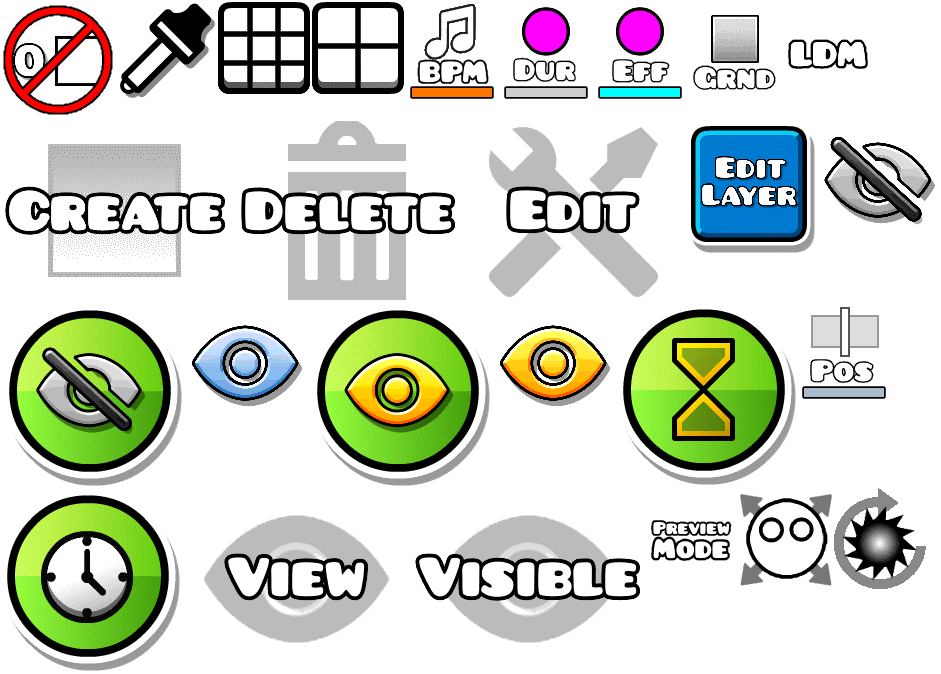
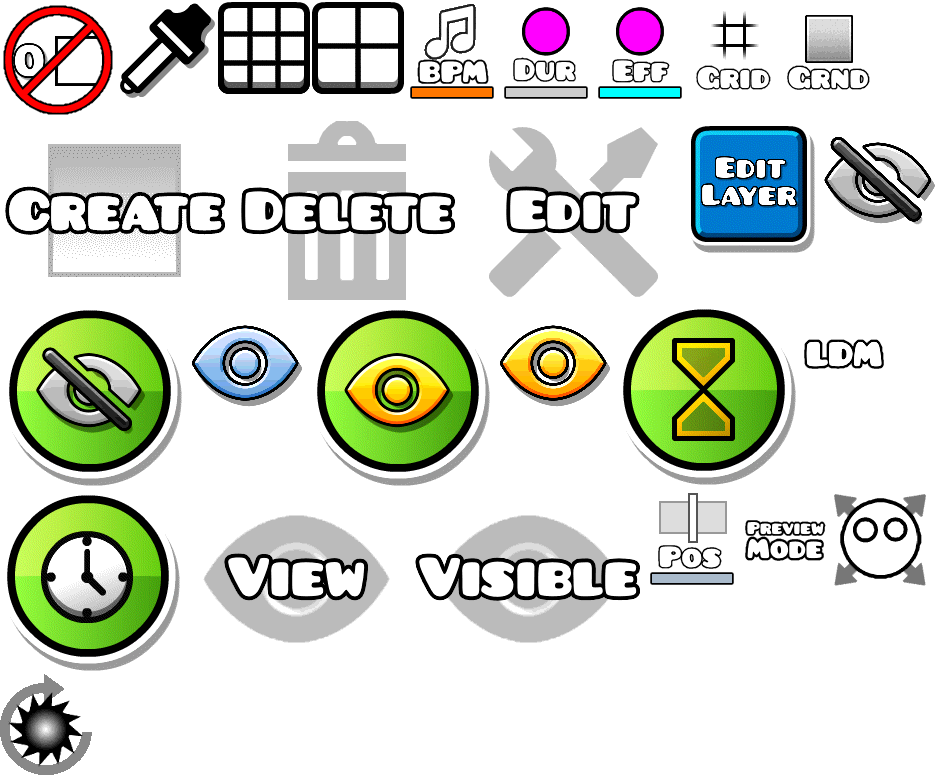
hide grid in visibility tab; auto backups should work now; fixed debug textures

diff --git a/tools/EyeDropper/eyeDropper.cpp b/tools/EyeDropper/eyeDropper.cpp
@@ -6,6 +6,7 @@ bool g_bPickingColor = false;
 ccColor3B g_obColorUnderCursor;
 EyeDropperColorOverlay* g_pOverlay;
 HWND g_hwnd;
+bool g_bLoadedResources = false;
 
 HWND glfwGetWin32Window(GLFWwindow* wnd) {
     auto cocosBase = GetModuleHandleA("libcocos2d.dll");
@@ -76,6 +77,17 @@ void __fastcall CCScheduler_update(CCScheduler* self, edx_t edx, float dt) {
             g_pOverlay->setShowColor(g_obColorUnderCursor);
             g_pOverlay->setLabelText(WindowFromPoint(mpos) == g_hwnd);
         }
+    }
+    
+    // debug stuff (has to be done in the GD thread, so i
+    // cant just do this in GDMAKE_MAIN)
+    if (GDMAKE_IS_CONSOLE_ENABLED && !g_bLoadedResources) {
+        g_bLoadedResources = true;
+
+        CCTextureCache::sharedTextureCache()
+            ->addImage("BE_GameSheet01.png", false);
+        CCSpriteFrameCache::sharedSpriteFrameCache()
+            ->addSpriteFramesWithFile("BE_GameSheet01.plist");
     }
 
     return GDMAKE_ORIG_V(self, edx, dt);

diff --git a/tools/VisibilityTab/loadVisibilityTab.cpp b/tools/VisibilityTab/loadVisibilityTab.cpp
@@ -255,6 +255,18 @@ void loadVisibilityTab(EditorUI* self) {
         }
     ));
 
+    btns->addObject(VisibilityToggle::create(
+        "BE_v_grid.png",
+        [self]() -> bool {
+            return GameManager::sharedState()->getGameVariable("0038");
+        },
+        [self](bool b, auto) -> void {
+            GameManager::sharedState()->setGameVariable("0038", b);
+
+            self->m_pEditorLayer->updateOptions();
+        }
+    ));
+
     auto buttonBar = EditButtonBar::create(
         btns,
         { CCDirector::sharedDirector()->getWinSize().width / 2, 86.0f },

diff --git a/tools/AutoSave/Backup/LevelBackupManager.cpp b/tools/AutoSave/Backup/LevelBackupManager.cpp
@@ -156,3 +156,14 @@ void LevelBackupManager::removeBackupForLevel(GJGameLevel* level, LevelBackup* b
     this->save();
 }
 
+void LevelBackupManager::handleAutoBackupForLevel(GJGameLevel* level) {
+    auto b = getBackupSettingsForLevel(level);
+
+    if (!b) return;
+
+    auto added = level->objectCount - b->m_nLastBackupObjectCount;
+    if (added > b->m_nBackupEvery) {
+        this->createBackupForLevel(level);
+        b->m_nLastBackupObjectCount = level->objectCount;
+    }
+}

diff --git a/tools/AutoSave/asyncSave.cpp b/tools/AutoSave/asyncSave.cpp
@@ -2,6 +2,7 @@
 #include "../RotateSaws/rotateSaws.hpp"
 #include <thread>
 #include <mutex>
+#include "Backup/LevelBackupManager.hpp"
 
 std::mutex g_stringMutex;
 static std::string g_sharedString;
@@ -54,5 +55,8 @@ void __fastcall EditorPauseLayer_saveLevel(EditorPauseLayer* self) {
     GDMAKE_ORIG_V(self);
 
     SoftSaveManager::clear();
+    LevelBackupManager::get()->handleAutoBackupForLevel(
+        self->m_pEditorLayer->m_pLevelSettings->m_pLevel
+    );
 }
 

diff --git a/tools/AutoSave/Backup/LevelBackupManager.hpp b/tools/AutoSave/Backup/LevelBackupManager.hpp
@@ -101,4 +101,6 @@ class LevelBackupManager : public GManager {
         CCArray* getBackupsForLevel(GJGameLevel* level);
         void createBackupForLevel(GJGameLevel* level);
         void removeBackupForLevel(GJGameLevel* level, LevelBackup* backup);
+
+        void handleAutoBackupForLevel(GJGameLevel* level);
 };
